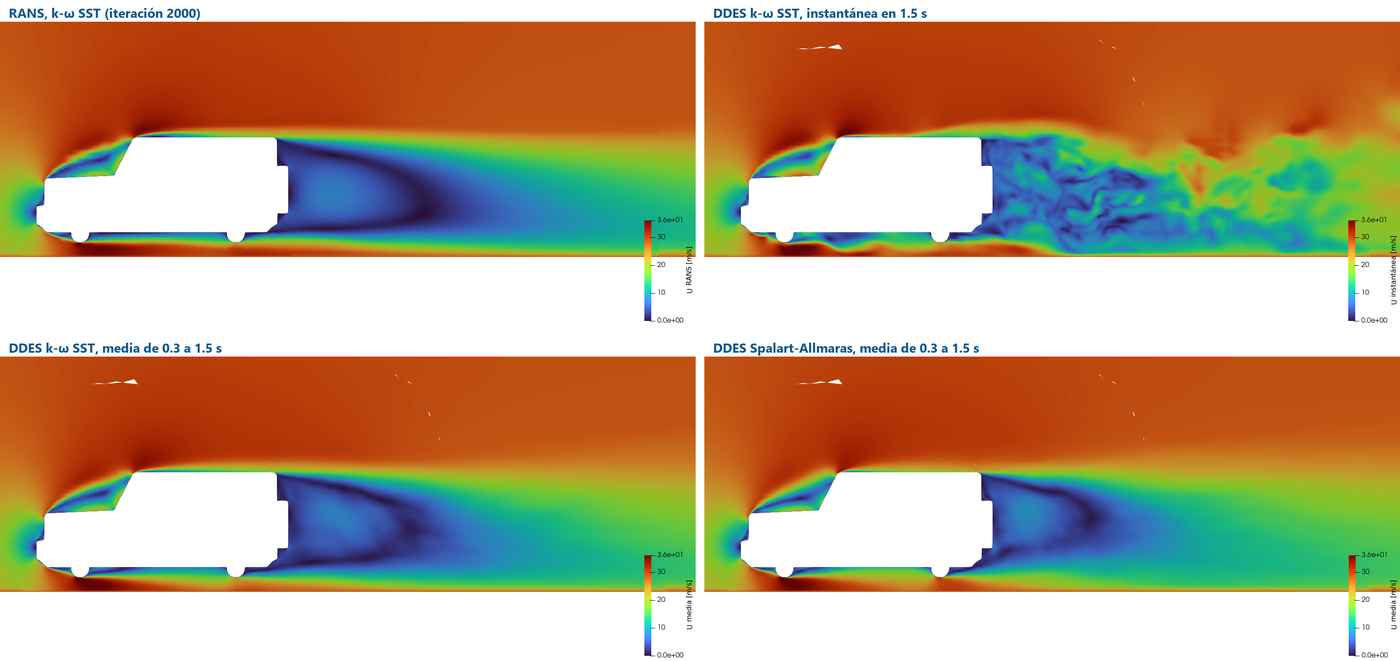
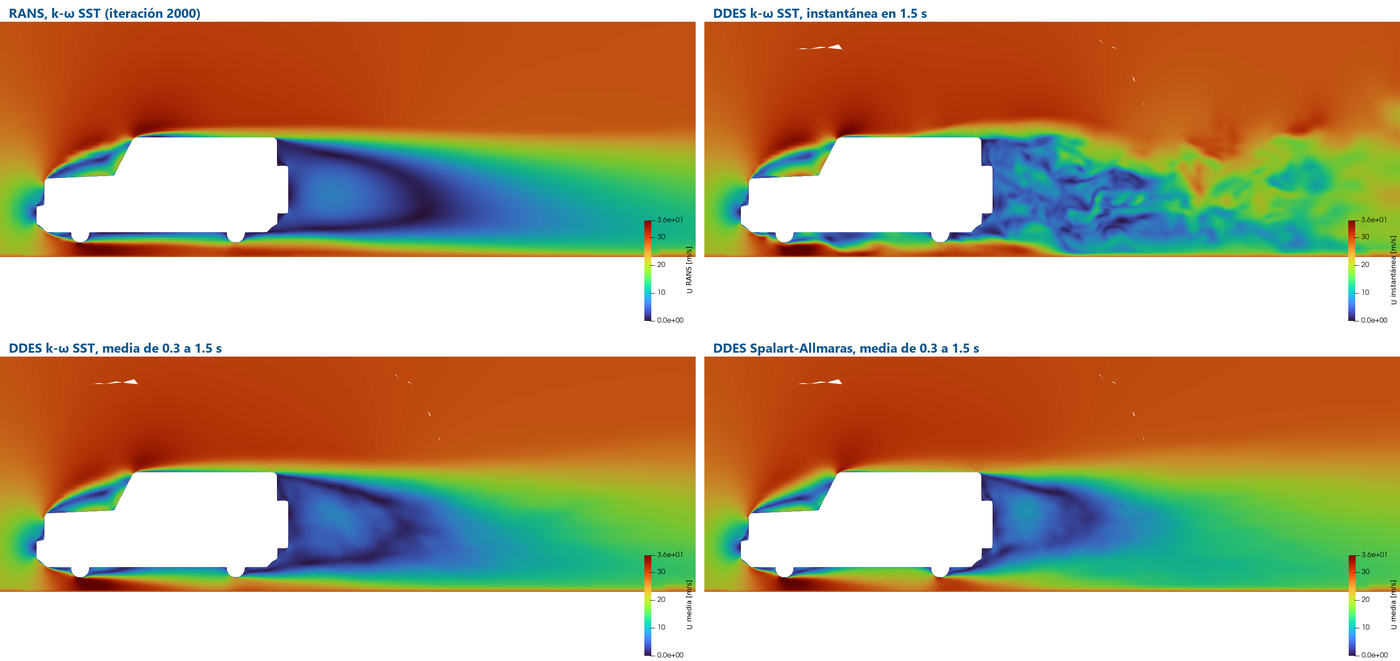
OpenFOAM incompresible 3.7: estela media y reparto del arrastre con las medias de 0.3 a 1.5 s, problema 6 (timeStart en vez de startTime) y casos con startTime

Changed region(s): [[0.7064, 0.7564, 0.86, 0.8775], [0.2764, 0.7867, 0.3071, 0.8169], [0.1843, 0.8472, 0.215, 0.8775]]

diff --git a/tutorials/openfoam-incompresible/jimny-ddes.html b/tutorials/openfoam-incompresible/jimny-ddes.html
@@ -79,7 +79,7 @@
     <section id="check">
       <p class="section-label">Worked example</p>
       <h2>RANS, SST-DES and SA-DDES side by side</h2>
-<p>Mean drag: RANS 0.564, SST-DES 0.576 ± 0.010, SA-DDES 0.689 ± 0.011. The DDES drag fluctuates by ±0.047 to ±0.056; the mean recirculation behind the tail is 1.98 m (RANS), 1.77 m (SST-DES) and 1.36 m (SA-DDES). The 20% gap between the two DDES models is pressure drag spread over the hood, roof, sides and rear: with Spalart-Allmaras the shear layers from the front edges break into resolved eddies almost at once, with SST they stay smooth sheets until the wake. Each DDES run costs ten to twelve times the RANS run.</p>
+<p>Mean drag: RANS 0.564, SST-DES 0.576 ± 0.010, SA-DDES 0.689 ± 0.011. The DDES drag fluctuates by ±0.047 to ±0.056; the mean recirculation behind the tail is 1.98 m (RANS), 1.70 m (SST-DES) and 1.17 m (SA-DDES). The 20% gap between the two DDES models is pressure drag spread over the hood, roof, sides and rear: with Spalart-Allmaras the shear layers from the front edges break into resolved eddies almost at once, with SST they stay smooth sheets until the wake. Each DDES run costs ten to twelve times the RANS run.</p>
     </section>
     <section id="errors">
       <p class="section-label">Common errors</p>
@@ -364,7 +364,7 @@ promediosTiempo
 {
     type            fieldAverage;
     libs            (&quot;libfieldFunctionObjects.so&quot;);
-    timeStart       0.3;
+    startTime       0.3;                    // startTime en OpenFOAM 12: timeStart (de la versión ESI) se ignora sin aviso
     writeControl    writeTime;
     fields
     (
@@ -382,7 +382,7 @@ promediosTiempo
 }
 
 // ************************************************************************* //</code></pre>
-<p><code>promediosTiempo</code> acumula, desde 0.3 s, la media de U y de p y sus fluctuaciones (<code>UPrime2Mean</code>, <code>pPrime2Mean</code>), que se escriben con cada carpeta de tiempo. <code>fuerzas</code> guarda la fuerza total en cada paso, para la fuerza lateral, que <code>forceCoeffs</code> no da.</p>
+<p><code>promediosTiempo</code> acumula, desde 0.3 s (<code>startTime</code>; véase el problema 6 de la sección de errores), la media de U y de p y sus fluctuaciones (<code>UPrime2Mean</code>, <code>pPrime2Mean</code>), que se escriben con cada carpeta de tiempo. <code>fuerzas</code> guarda la fuerza total en cada paso, para la fuerza lateral, que <code>forceCoeffs</code> no da.</p>
 
     </section>
     <section id="check-es">
@@ -485,15 +485,15 @@ Error estándar de la media     0.0100</code></pre>
     <thead><tr><th>Cálculo</th><th>\(C_D\)</th><th>Fluctuación</th><th>\(C_{L,f}\)</th><th>\(C_{L,r}\)</th><th>Recirculación</th></tr></thead>
     <tbody>
       <tr><td>RANS, k-ω SST</td><td>0.564 ± 0.001</td><td>0.003</td><td>0.171</td><td>−0.099</td><td>1.98 m</td></tr>
-      <tr><td>DDES, k-ω SST</td><td>0.576 ± 0.010</td><td>0.047</td><td>0.143</td><td>−0.104</td><td>1.77 m</td></tr>
-      <tr><td>DDES, Spalart-Allmaras</td><td>0.689 ± 0.011</td><td>0.056</td><td>0.282</td><td>−0.212</td><td>1.36 m</td></tr>
+      <tr><td>DDES, k-ω SST</td><td>0.576 ± 0.010</td><td>0.047</td><td>0.143</td><td>−0.104</td><td>1.70 m</td></tr>
+      <tr><td>DDES, Spalart-Allmaras</td><td>0.689 ± 0.011</td><td>0.056</td><td>0.282</td><td>−0.212</td><td>1.17 m</td></tr>
     </tbody>
     <caption><b class="tab-num">Tabla 2.</b> <b class="fig-title">Los tres cálculos del Jimny.</b> RANS: iteraciones 1001 a 2000 (tutorial 3.3); DDES: de 0.3 a 1.5 s. El ± del \(C_D\) es el error estándar de la media (en el DDES, con tramos de 0.2 s: el guion <code>tramos</code>); la fluctuación es la desviación estándar del \(C_D\) instantáneo. La recirculación es el largo de la zona con \(U_x &lt; 0\) detrás de la cola, en el plano medio, con la velocidad media.</caption>
   </table>
 </div>
 <p>Contra el RANS, el \(C_D\) medio cambia +2 % con k-ω SST y +22 % con Spalart-Allmaras. La fuerza de arrastre a 100 km/h pasa de 636 N a 650 y 777 N (\(\rho\) = 1.2 kg/m³). La diferencia entre los dos DDES, 0.113, es unas diez veces el error estándar de cada media: no es ruido, es el modelo. Con Spalart-Allmaras también se duplica el levante del eje delantero.</p>
 <h3>3. Dónde está la diferencia</h3>
-<p>Casi toda es arrastre de presión: el de fricción apenas cambia. Integrando la presión media sobre el vehículo por franjas (el guion <code>arrastre_zonas_ddes.py</code> de la carpeta de exploración), de cada 100 unidades de arrastre de presión que Spalart-Allmaras agrega sobre k-ω SST, 27 están en el cofre y el parabrisas, 49 en el techo y los costados y 30 en la cola; en la cara del frente casi no hay diferencia (−6, un poco menos). La diferencia no viene de un punto: viene de lo que pasa en todo el vehículo detrás de los bordes del frente, que es lo que muestran los remolinos.</p>
+<p>Casi toda es arrastre de presión: el de fricción apenas cambia. Integrando la presión media sobre el vehículo por franjas (el guion <code>arrastre_zonas_ddes.py</code> de la carpeta de exploración), de cada 100 unidades de arrastre de presión que Spalart-Allmaras agrega sobre k-ω SST, 25 están en el cofre y el parabrisas, 50 en el techo y los costados y 30 en la cola; en la cara del frente casi no hay diferencia (−6, un poco menos). La diferencia no viene de un punto: viene de lo que pasa en todo el vehículo detrás de los bordes del frente, que es lo que muestran los remolinos.</p>
 <h3>4. Los remolinos</h3>
 <figure class="diagram">
   <img src="imagenes/t37-02_q.png" alt="El Jimny visto de tres cuartos por delante con las isosuperficies del criterio Q de los dos modelos DDES" loading="lazy">
@@ -514,7 +514,7 @@ Error estándar de la media     0.0100</code></pre>
   <img src="imagenes/t37-01_planos.png" alt="Cuatro cortes del plano medio del Jimny coloreados por la magnitud de la velocidad" loading="lazy">
   <figcaption><b class="fig-num">Figura 6.</b> <b class="fig-title">La velocidad en el plano medio.</b> |U| en \(y\) = 0, de 0 a 36 m/s. Arriba, el RANS (iteración 2000) y el DDES k-ω SST en el instante 1.5 s; abajo, la velocidad media de 0.3 a 1.5 s de los dos DDES. La instantánea está llena de remolinos; las medias se parecen al RANS, con la zona lenta detrás de la cola más corta.</figcaption>
 </figure>
-<p>En el plano medio (figura 6), la velocidad instantánea del DDES está llena de remolinos; su media, en cambio, se parece a la estela del RANS. La zona de flujo invertido detrás de la cola mide 1.98 m en el RANS, 1.77 m con k-ω SST y 1.36 m con Spalart-Allmaras. Es la regla de los cuerpos romos: la burbuja más corta va con más succión en la cara trasera y más arrastre.</p>
+<p>En el plano medio (figura 6), la velocidad instantánea del DDES está llena de remolinos; su media, en cambio, se parece a la estela del RANS. La zona de flujo invertido detrás de la cola mide 1.98 m en el RANS, 1.70 m con k-ω SST y 1.17 m con Spalart-Allmaras. Es la regla de los cuerpos romos: la burbuja más corta va con más succión en la cara trasera y más arrastre.</p>
 <h3>6. El costo</h3>
 <div class="table-wrap">
   <table>
@@ -539,7 +539,7 @@ Error estándar de la media     0.0100</code></pre>
       <p class="section-label">Errores frecuentes</p>
       <h2>Cambiar el modelo de turbulencia de un caso</h2>
 
-<p>Los cinco salieron al preparar esta guía.</p>
+<p>Los seis salieron al preparar esta guía.</p>
 <h3>1. Spalart-Allmaras sin nuTilda</h3>
 <p>Si se cambia sólo <code>momentumTransport</code> a <code>SpalartAllmarasDDES</code>, el solver se detiene al construir el modelo:</p>
 <pre class="code"><code>--&gt; FOAM FATAL ERROR:
@@ -557,6 +557,15 @@ cannot find file &quot;D:/blueCFD-Core/2024/ofuser-of12/run/vehiculo/errores-sa/
 <p><strong>Remedio:</strong> un solo lugar. Los casos de esta guía usan <code>system/functions</code>.</p>
 <h3>5. El filtro Gradient de ParaView</h3>
 <p>Calcular Q en ParaView con el filtro <em>Gradient</em> (casilla <em>Compute QCriterion</em>) sobre los datos en los puntos llenó el registro de «vtkWedge … Jacobian inverse not found» —las cuñas degeneradas que <code>snappyHexMesh</code> deja junto a la pared— y, con el campo de 1.5 s, ParaView se cerró. <strong>Remedio:</strong> que lo calcule OpenFOAM, con <code>foamPostProcess -func Q</code> (paso 6 de la receta), y en ParaView sólo dibujar el <em>Contour</em>.</p>
+<h3>6. timeStart en vez de startTime</h3>
+<p>La primera versión de esta guía escribía <code>timeStart 0.3;</code> en <code>promediosTiempo</code>, como en la versión ESI de OpenFOAM (openfoam.com). OpenFOAM 12 no conoce esa palabra, <strong>no avisa</strong> y promedia desde el tiempo 0, con el arranque incluido. Se descubre en el archivo que <code>fieldAverage</code> escribe en cada carpeta de tiempo:</p>
+<p class="code-name"><code>processor0/1.5/uniform/promediosTiempoProperties</code></p>
+<pre class="code"><code>U
+{
+    totalIter       15000;
+    totalTime       1.5;
+}</code></pre>
+<p>Con el promedio desde 0.3 s, <code>totalTime</code> sería 1.2. <strong>Remedio:</strong> <code>startTime 0.3;</code>, que es lo que traen ahora los dos casos. Si ya se corrió con <code>timeStart</code>, no hace falta repetir el cálculo: con un paso de tiempo fijo, la media de 0.3 a 1.5 s sale de las dos medias acumuladas, \(\bar u_{0.3\text{–}1.5} = (15000\,\bar u_{1.5} - 3000\,\bar u_{0.3})/12000\). Así se corrigieron, el 29 de octubre de 2026, la estela media y el reparto del arrastre de esta guía; la burbuja de Spalart-Allmaras resultó 14 % más corta que con el promedio desde 0. El \(C_D\) no cambia: sale de <code>forceCoeffs</code>, no de los promedios.</p>
 
     </section>
     <section id="practice-es">
@@ -647,7 +656,7 @@ cannot find file &quot;D:/blueCFD-Core/2024/ofuser-of12/run/vehiculo/errores-sa/
     <section id="check-de">
       <p class="section-label">Durchgerechnetes Beispiel</p>
       <h2>RANS, SST-DES und SA-DDES nebeneinander</h2>
-<p>Mittlerer Widerstand: RANS 0,564, SST-DES 0,576 ± 0,010, SA-DDES 0,689 ± 0,011. Der DDES-Widerstand schwankt um ±0,047 bis ±0,056; das mittlere Rückströmgebiet hinter dem Heck ist 1,98 m (RANS), 1,77 m (SST-DES) und 1,36 m (SA-DDES) lang. Der Unterschied von 20 % zwischen den beiden DDES-Modellen ist Druckwiderstand, verteilt auf Motorhaube, Dach, Seiten und Heck: Mit Spalart-Allmaras zerfallen die Scherschichten der vorderen Kanten fast sofort in aufgelöste Wirbel, mit SST bleiben sie bis zum Nachlauf glatte Schichten. Jede DDES-Rechnung kostet das Zehn- bis Zwölffache der RANS-Rechnung.</p>
+<p>Mittlerer Widerstand: RANS 0,564, SST-DES 0,576 ± 0,010, SA-DDES 0,689 ± 0,011. Der DDES-Widerstand schwankt um ±0,047 bis ±0,056; das mittlere Rückströmgebiet hinter dem Heck ist 1,98 m (RANS), 1,70 m (SST-DES) und 1,17 m (SA-DDES) lang. Der Unterschied von 20 % zwischen den beiden DDES-Modellen ist Druckwiderstand, verteilt auf Motorhaube, Dach, Seiten und Heck: Mit Spalart-Allmaras zerfallen die Scherschichten der vorderen Kanten fast sofort in aufgelöste Wirbel, mit SST bleiben sie bis zum Nachlauf glatte Schichten. Jede DDES-Rechnung kostet das Zehn- bis Zwölffache der RANS-Rechnung.</p>
     </section>
     <section id="errors-de">
       <p class="section-label">Häufige Fehler</p>
